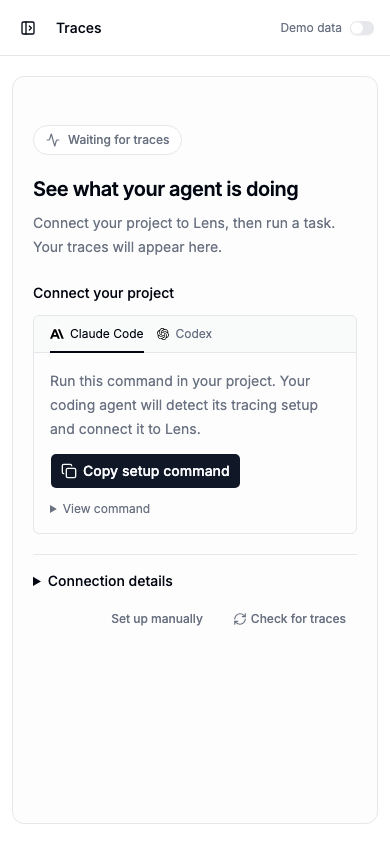
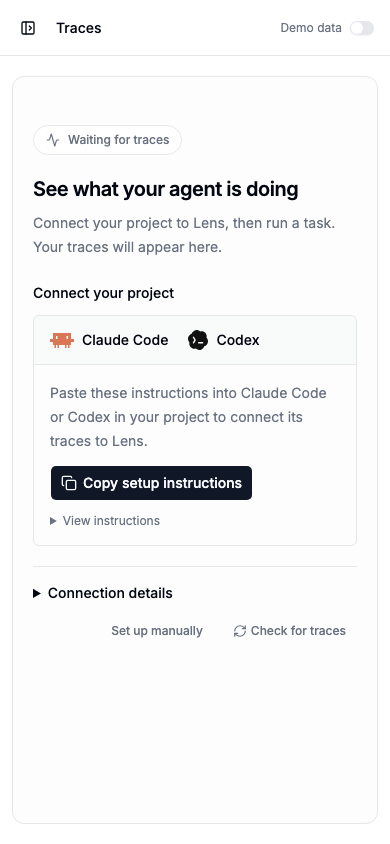
fix(ui): share setup instructions across coding agents

Changed region(s): [[0.1231, 0.3697, 0.8308, 0.6469], [0.0615, 0.6777, 0.5231, 0.7701], [0.5846, 0.7085, 0.8923, 0.7701]]

diff --git a/src/ui/lib/src/components/lens/onboarding/tracing/TracingSetupCard.tsx b/src/ui/lib/src/components/lens/onboarding/tracing/TracingSetupCard.tsx
@@ -12,8 +12,8 @@ import { Button } from "../../../ui/button";
 import { Select, SelectContent, SelectItem, SelectTrigger, SelectValue } from "../../../ui/select";
 import { copyToClipboard } from "../../../../utils/dataUtils";
 
-import anthropicLogo from "../../../../../public/assets/logos/anthropic.svg";
-import openaiLogo from "../../../../../public/assets/logos/openai_small.svg";
+import claudeCodeLogo from "../../../../../public/assets/logos/claude-code.svg";
+import codexLogo from "../../../../../public/assets/logos/codex.svg";
 import otelLogo from "../../../../../public/assets/logos/opentelemetry.svg";
 import { agentTraceCall, apiClient, getProxyBaseUrl } from "../../../../lib/http/requests";
 import { ActiveDot } from "../../traces/ui/ActiveDot";
@@ -38,7 +38,6 @@ export const TRACING_KEY_REQUEST = { name: "Agent tracing" } as const;
 const SAMPLE_TRACE_POLL_ATTEMPTS = 15;
 
 type Installer = "pip" | "uv";
-type CodingAgent = "Claude Code" | "Codex";
 
 const PY_INSTALL: Record<Installer, (packages: string) => string> = {
   pip: (packages) => `pip install ${packages}`,
@@ -79,11 +78,6 @@ export const codingAgentPrompt = (
   ]
     .filter(Boolean)
     .join("\n\n");
-
-const shellQuote = (value: string): string => `'${value.replaceAll("'", "'\\''")}'`;
-
-export const codingAgentCommand = (agent: CodingAgent, prompt: string): string =>
-  `${agent === "Claude Code" ? "claude" : "codex"} ${shellQuote(prompt)}`;
 
 export const projectSetupPrompt = (traceUrl: string): string =>
   [
@@ -434,11 +428,6 @@ export function Endpoints({ proxyUrl, children }: { proxyUrl: string; children?:
   );
 }
 
-const CODING_AGENT_LOGOS: Record<CodingAgent, string> = {
-  "Claude Code": anthropicLogo.src,
-  Codex: openaiLogo.src,
-};
-
 function setupTitle(enabled: boolean, connected: boolean) {
   if (!enabled) return "Set up Lens";
   return connected ? "Connect another agent" : "Connect your agent";
@@ -557,15 +546,13 @@ export function CodingAgentSetup({
   model?: string;
 }) {
   const standalone = useLensHost().surface === "standalone";
-  const [codingAgent, setCodingAgent] = useState<CodingAgent>("Claude Code");
   const [copied, setCopied] = useState<string | null>(null);
-  const command = codingAgentCommand(
-    codingAgent,
-    guide ? codingAgentPrompt(proxyUrl, traceUrl, guide, model, standalone) : projectSetupPrompt(traceUrl),
-  );
+  const instructions = guide
+    ? codingAgentPrompt(proxyUrl, traceUrl, guide, model, standalone)
+    : projectSetupPrompt(traceUrl);
   useTimeout(() => setCopied(null), copied === null ? null : COPIED_RESET_MS);
   const copy = async () => {
-    if (await copyToClipboard(command)) setCopied(command);
+    if (await copyToClipboard(instructions)) setCopied(instructions);
   };
   return (
     <section className="mt-6" aria-labelledby="connect-project">
@@ -573,40 +560,32 @@ export function CodingAgentSetup({
         Connect your project
       </h3>
       <div className="mt-3 overflow-hidden rounded-md border">
-        <div className="border-b bg-muted/30 px-4">
-          <LineTabs
-            value={codingAgent}
-            options={["Claude Code", "Codex"]}
-            onChange={(value) => {
-              setCodingAgent(value);
-              setCopied(null);
-            }}
-            logos={CODING_AGENT_LOGOS}
-          />
+        <div className="flex flex-wrap items-center gap-5 border-b bg-muted/30 px-4 py-3">
+          <span className="inline-flex items-center gap-2 text-sm font-medium">
+            <img src={claudeCodeLogo.src} alt="Claude Code logo" className="size-6 object-contain" />
+            Claude Code
+          </span>
+          <span className="inline-flex items-center gap-2 text-sm font-medium">
+            <img src={codexLogo.src} alt="Codex logo" className="size-5 object-contain dark:invert" />
+            Codex
+          </span>
         </div>
         <div className="p-4">
           <p className="text-sm leading-6 text-muted-foreground">
-            {guide ? (
-              <>
-                Run the setup command in your agent’s project. It uses{" "}
-                <code className="text-xs">LITELLM_TRACING_KEY</code> for traces and keeps your model key separate.
-              </>
-            ) : (
-              "Run this command in your project. Your coding agent will detect its tracing setup and connect it to Lens."
-            )}
+            Paste these instructions into Claude Code or Codex in your project to connect its traces to Lens.
           </p>
           <Button className="mt-3" onClick={() => void copy()}>
-            {copied === command ? (
+            {copied === instructions ? (
               <Check aria-hidden="true" className="size-4" />
             ) : (
               <Copy aria-hidden="true" className="size-4" />
             )}
-            {copied === command ? "Copied" : "Copy setup command"}
+            {copied === instructions ? "Copied" : "Copy setup instructions"}
           </Button>
           <details className="mt-3">
-            <summary className="w-fit cursor-pointer text-xs text-muted-foreground">View command</summary>
+            <summary className="w-fit cursor-pointer text-xs text-muted-foreground">View instructions</summary>
             <pre className="mt-3 max-h-56 overflow-auto whitespace-pre-wrap rounded-md bg-muted/40 p-3 text-xs leading-5">
-              <code>{command}</code>
+              <code>{instructions}</code>
             </pre>
           </details>
         </div>

diff --git a/src/ui/lib/src/components/lens/onboarding/tracing/TracingSetupCard.integration.test.tsx b/src/ui/lib/src/components/lens/onboarding/tracing/TracingSetupCard.integration.test.tsx
@@ -5,7 +5,6 @@ import { chooseSelectOption, renderWithProviders, testQueryClient } from "../../
 import { copyToClipboard } from "../../../../utils/dataUtils";
 import { agentTraceCall, apiClient } from "../../../../lib/http/requests";
 import {
-  codingAgentCommand,
   codingAgentPrompt,
   maskSecret,
   projectSetupPrompt,
@@ -96,7 +95,7 @@ describe("TracingSetupCard", () => {
     expect(screen.queryByRole("button", { name: "Preview sample" })).not.toBeInTheDocument();
   });
 
-  it("builds the coding agent command for the selected framework and keeps both manual installers", async () => {
+  it("should copy shared instructions for the selected framework and keep both manual installers", async () => {
     const user = userEvent.setup();
     await renderCard();
     await chooseSelectOption(user, screen.getByRole("combobox", { name: "Your agent framework" }), "CrewAI");
@@ -106,15 +105,12 @@ describe("TracingSetupCard", () => {
       FRAMEWORKS.find((guide) => guide.id === "crewai")!,
       "openai/gpt-6.1-sol",
     );
-    expect(screen.getByText(/^claude /)).not.toBeVisible();
-    await user.click(screen.getByRole("button", { name: "Copy setup command" }));
-    expect(copyToClipboard).toHaveBeenLastCalledWith(codingAgentCommand("Claude Code", prompt));
-    await user.click(screen.getByRole("tab", { name: "Codex" }));
-    await user.click(screen.getByRole("button", { name: "Copy setup command" }));
-    expect(copyToClipboard).toHaveBeenLastCalledWith(codingAgentCommand("Codex", prompt));
-    await user.click(screen.getByText("View command"));
-    expect(screen.getByText(/^codex /)).toBeVisible();
-    expect(screen.getByText(/^codex /)).toHaveTextContent(codingAgentCommand("Codex", prompt), {
+    expect(screen.getByText(/^Send this CrewAI project's OpenTelemetry/)).not.toBeVisible();
+    await user.click(screen.getByRole("button", { name: "Copy setup instructions" }));
+    expect(copyToClipboard).toHaveBeenLastCalledWith(prompt);
+    await user.click(screen.getByText("View instructions"));
+    expect(screen.getByText(/^Send this CrewAI project's OpenTelemetry/)).toBeVisible();
+    expect(screen.getByText(/^Send this CrewAI project's OpenTelemetry/)).toHaveTextContent(prompt, {
       normalizeWhitespace: false,
     });
 
@@ -340,15 +336,6 @@ describe("setup snippets", () => {
     expect(prompt).toContain("Report configuration or credential gaps instead of claiming success");
   });
 
-  it.each(["Claude Code", "Codex"] as const)("should quote the complete project prompt for %s", (agent) => {
-    const prompt = projectSetupPrompt("https://traces.test/team's/$(literal)");
-    const command = codingAgentCommand(agent, prompt);
-    expect(command.startsWith(`${agent === "Claude Code" ? "claude" : "codex"} '`)).toBe(true);
-    expect(command).toContain("Connect this project'\\''s agent traces");
-    expect(command).toContain("team'\\''s/$(literal)/v1/traces");
-    expect(command.endsWith("'")).toBe(true);
-  });
-
   it("uses the instance trace endpoint and keeps tracing and inference keys separate", () => {
     const env = tracingEnvSnippet("https://traces.test");
     expect(env).toContain('OTEL_EXPORTER_OTLP_TRACES_ENDPOINT="https://traces.test/v1/traces"');
@@ -366,11 +353,6 @@ describe("setup snippets", () => {
     expect(prompt).toContain('AGENT_NAME = "research_agent"');
     expect(prompt).toContain("name=AGENT_NAME");
     expect(prompt).toContain("Lens > Traces");
-  });
-
-  it("builds a shell-safe command for each coding agent", () => {
-    expect(codingAgentCommand("Claude Code", "it's")).toBe("claude 'it'\\''s'");
-    expect(codingAgentCommand("Codex", "go")).toBe("codex 'go'");
   });
 
   it("masks secrets but keeps a recognisable prefix and suffix", () => {

diff --git a/src/ui/lib/src/components/lens/traces/list/AgentTracesSection.integration.test.tsx b/src/ui/lib/src/components/lens/traces/list/AgentTracesSection.integration.test.tsx
@@ -12,6 +12,7 @@ import { filterRuns } from "./runSearch/runQuery";
 import type { RelativeRangeState } from "../../../shared/timeRange/useRelativeRange";
 
 import { AgentTracesSection } from "./AgentTracesSection";
+import { projectSetupPrompt } from "../../onboarding/tracing/TracingSetupCard";
 import type { TraceFeedbackSummary, TraceFindingCount, TracePage, TraceSummary } from "../types";
 
 vi.mock("../../../../lib/http/requests", () => ({
@@ -204,26 +205,26 @@ describe("AgentTracesSection", () => {
     expect(screen.queryByRole("button", { name: "Generate tracing key" })).not.toBeInTheDocument();
   });
 
-  it("should copy setup commands directly while keeping connection details collapsed", async () => {
+  it("should copy shared setup instructions while keeping connection details collapsed", async () => {
     const user = userEvent.setup();
     vi.mocked(agentTraceListCall).mockResolvedValue({ ...(traceList as TracePage), data: [] });
     renderSection();
 
     const waiting = within(await screen.findByRole("region", { name: "Waiting for traces" }));
     expect(waiting.getByRole("status")).toHaveTextContent("Waiting for traces");
-    const copy = await waiting.findByRole("button", { name: "Copy setup command" });
+    const copy = await waiting.findByRole("button", { name: "Copy setup instructions" });
     expect(copy).toBeVisible();
-    expect(waiting.getByRole("tab", { name: "Claude Code", selected: true })).toBeVisible();
+    expect(waiting.getByText("Claude Code")).toBeVisible();
+    expect(waiting.getByText("Codex")).toBeVisible();
+    expect(waiting.getByRole("img", { name: "Claude Code logo" })).toBeVisible();
+    expect(waiting.getByRole("img", { name: "Codex logo" })).toBeVisible();
+    expect(waiting.queryByRole("tab", { name: /Claude Code|Codex/ })).not.toBeInTheDocument();
     expect(waiting.getByText("Traces endpoint")).not.toBeVisible();
     expect(waiting.getByText("Ask your Lens administrator for a dedicated tracing key.")).not.toBeVisible();
     await user.click(copy);
-    const claudeCommand = await navigator.clipboard.readText();
-    expect(claudeCommand).toMatch(/^claude /);
-    expect(claudeCommand).toContain(`${readyService.url}/v1/traces`);
-    expect(claudeCommand).not.toContain("sk-test");
-    await user.click(waiting.getByRole("tab", { name: "Codex" }));
-    await user.click(waiting.getByRole("button", { name: "Copy setup command" }));
-    expect(await navigator.clipboard.readText()).toBe(claudeCommand.replace(/^claude /, "codex "));
+    const instructions = await navigator.clipboard.readText();
+    expect(instructions).toBe(projectSetupPrompt(readyService.url));
+    expect(instructions).not.toContain("sk-test");
     expect(waiting.getByText("Traces endpoint")).not.toBeVisible();
     expect(waiting.queryByRole("alert")).not.toBeInTheDocument();
     expect(waiting.queryByRole("button", { name: "Set up manually" })).not.toBeInTheDocument();

diff --git a/src/ui/lib/src/components/lens/onboarding/WaitingForTraces.integration.test.tsx b/src/ui/lib/src/components/lens/onboarding/WaitingForTraces.integration.test.tsx
@@ -5,6 +5,7 @@ import { renderWithLens, stubGateway } from "../../../../tests/lens-test-utils";
 import { testQueryClient } from "../../../../tests/test-utils";
 import { copyToClipboard } from "../../../utils/dataUtils";
 import { WaitingForTraces } from "./WaitingForTraces";
+import { projectSetupPrompt } from "./tracing/TracingSetupCard";
 
 vi.mock("../../../utils/dataUtils", () => ({ copyToClipboard: vi.fn().mockResolvedValue(true) }));
 
@@ -14,7 +15,7 @@ beforeEach(() => {
 });
 
 describe("Waiting for traces", () => {
-  it("should keep the generated key out of both coding-agent setup commands", async () => {
+  it("should keep the generated key out of shared coding-agent setup instructions", async () => {
     const user = userEvent.setup();
     const gateway = stubGateway();
     const secret = "lens-trace-generated-secret-for-test";
@@ -34,18 +35,10 @@ describe("Waiting for traces", () => {
     await screen.findByText("Your tracing key");
     expect(screen.getByRole("region", { name: "Waiting for traces" })).not.toHaveTextContent(secret);
 
-    await user.click(screen.getByRole("button", { name: "Copy setup command" }));
-    const claude = vi.mocked(copyToClipboard).mock.lastCall?.[0];
-    expect(claude).toMatch(/^claude '/);
-    expect(claude).toContain("https://lens.example/v1/traces");
-    expect(claude).toContain("<dedicated Lens tracing key>");
-    expect(claude).not.toContain(secret);
-
-    await user.click(screen.getByRole("tab", { name: "Codex" }));
-    await user.click(screen.getByRole("button", { name: "Copy setup command" }));
-    const codex = vi.mocked(copyToClipboard).mock.lastCall?.[0];
-    expect(codex).toMatch(/^codex '/);
-    expect(codex).toContain("<dedicated Lens tracing key>");
-    expect(codex).not.toContain(secret);
+    await user.click(screen.getByRole("button", { name: "Copy setup instructions" }));
+    const instructions = vi.mocked(copyToClipboard).mock.lastCall?.[0];
+    expect(instructions).toBe(projectSetupPrompt("https://lens.example"));
+    expect(instructions).toContain("<dedicated Lens tracing key>");
+    expect(instructions).not.toContain(secret);
   });
 });
